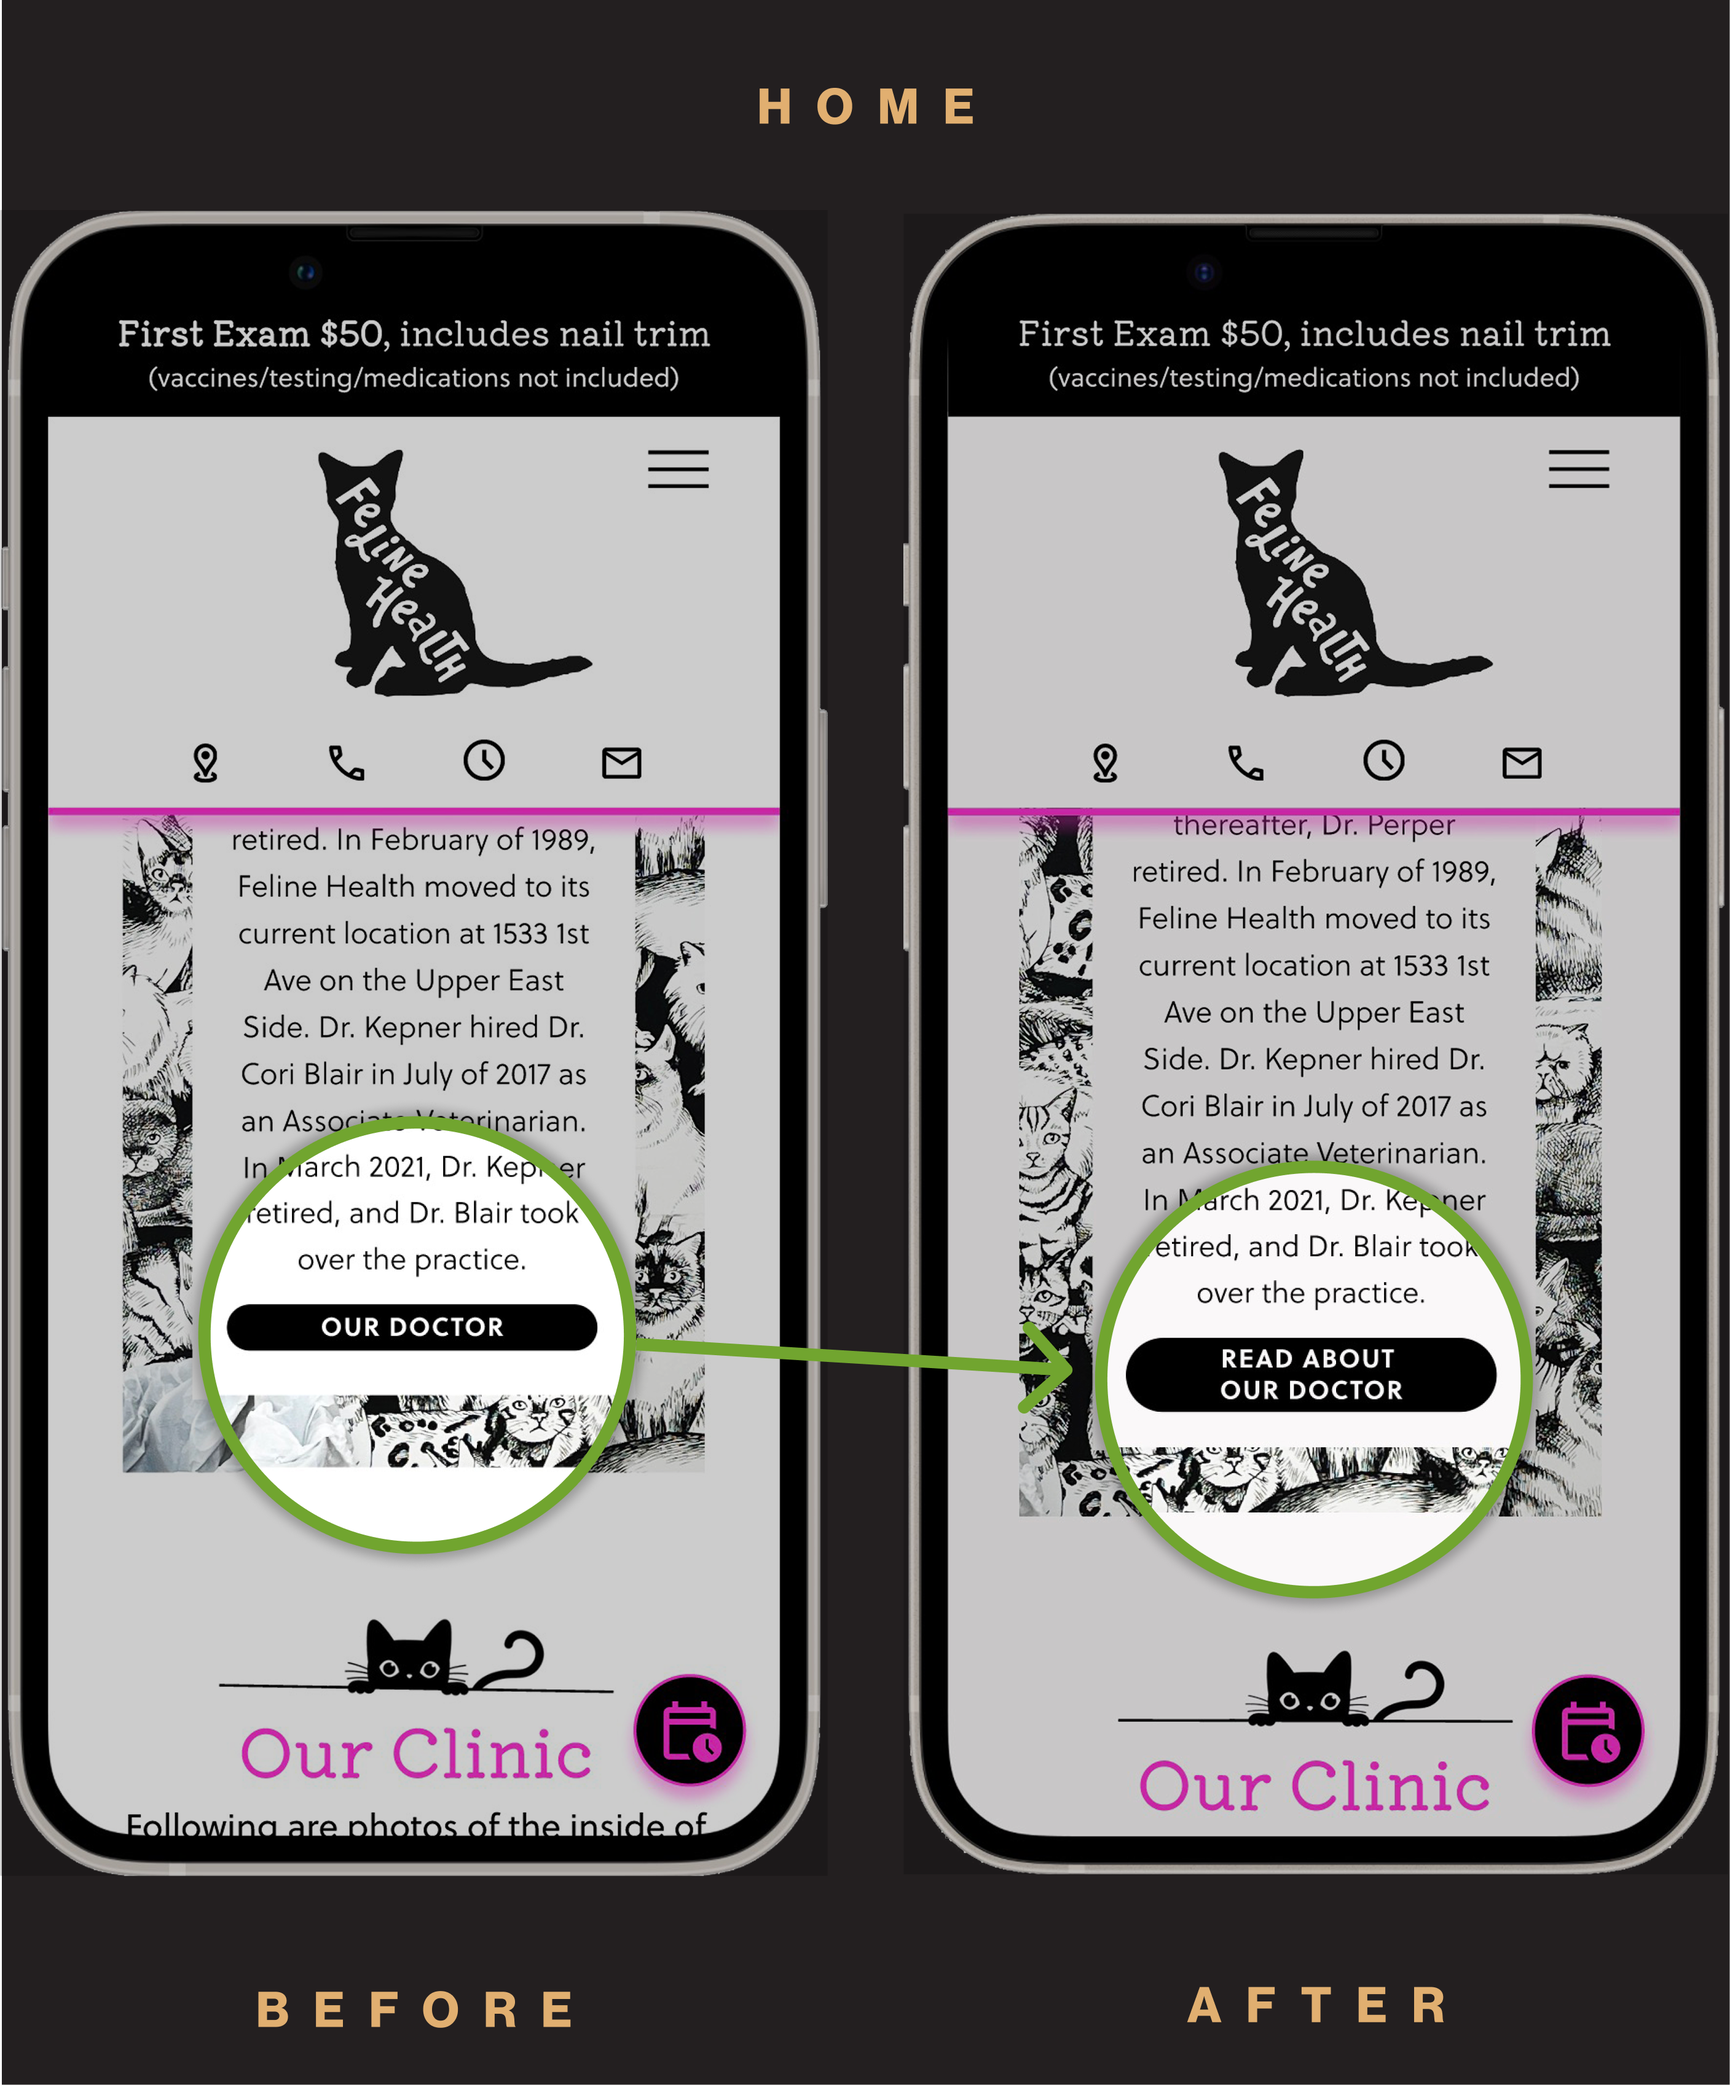
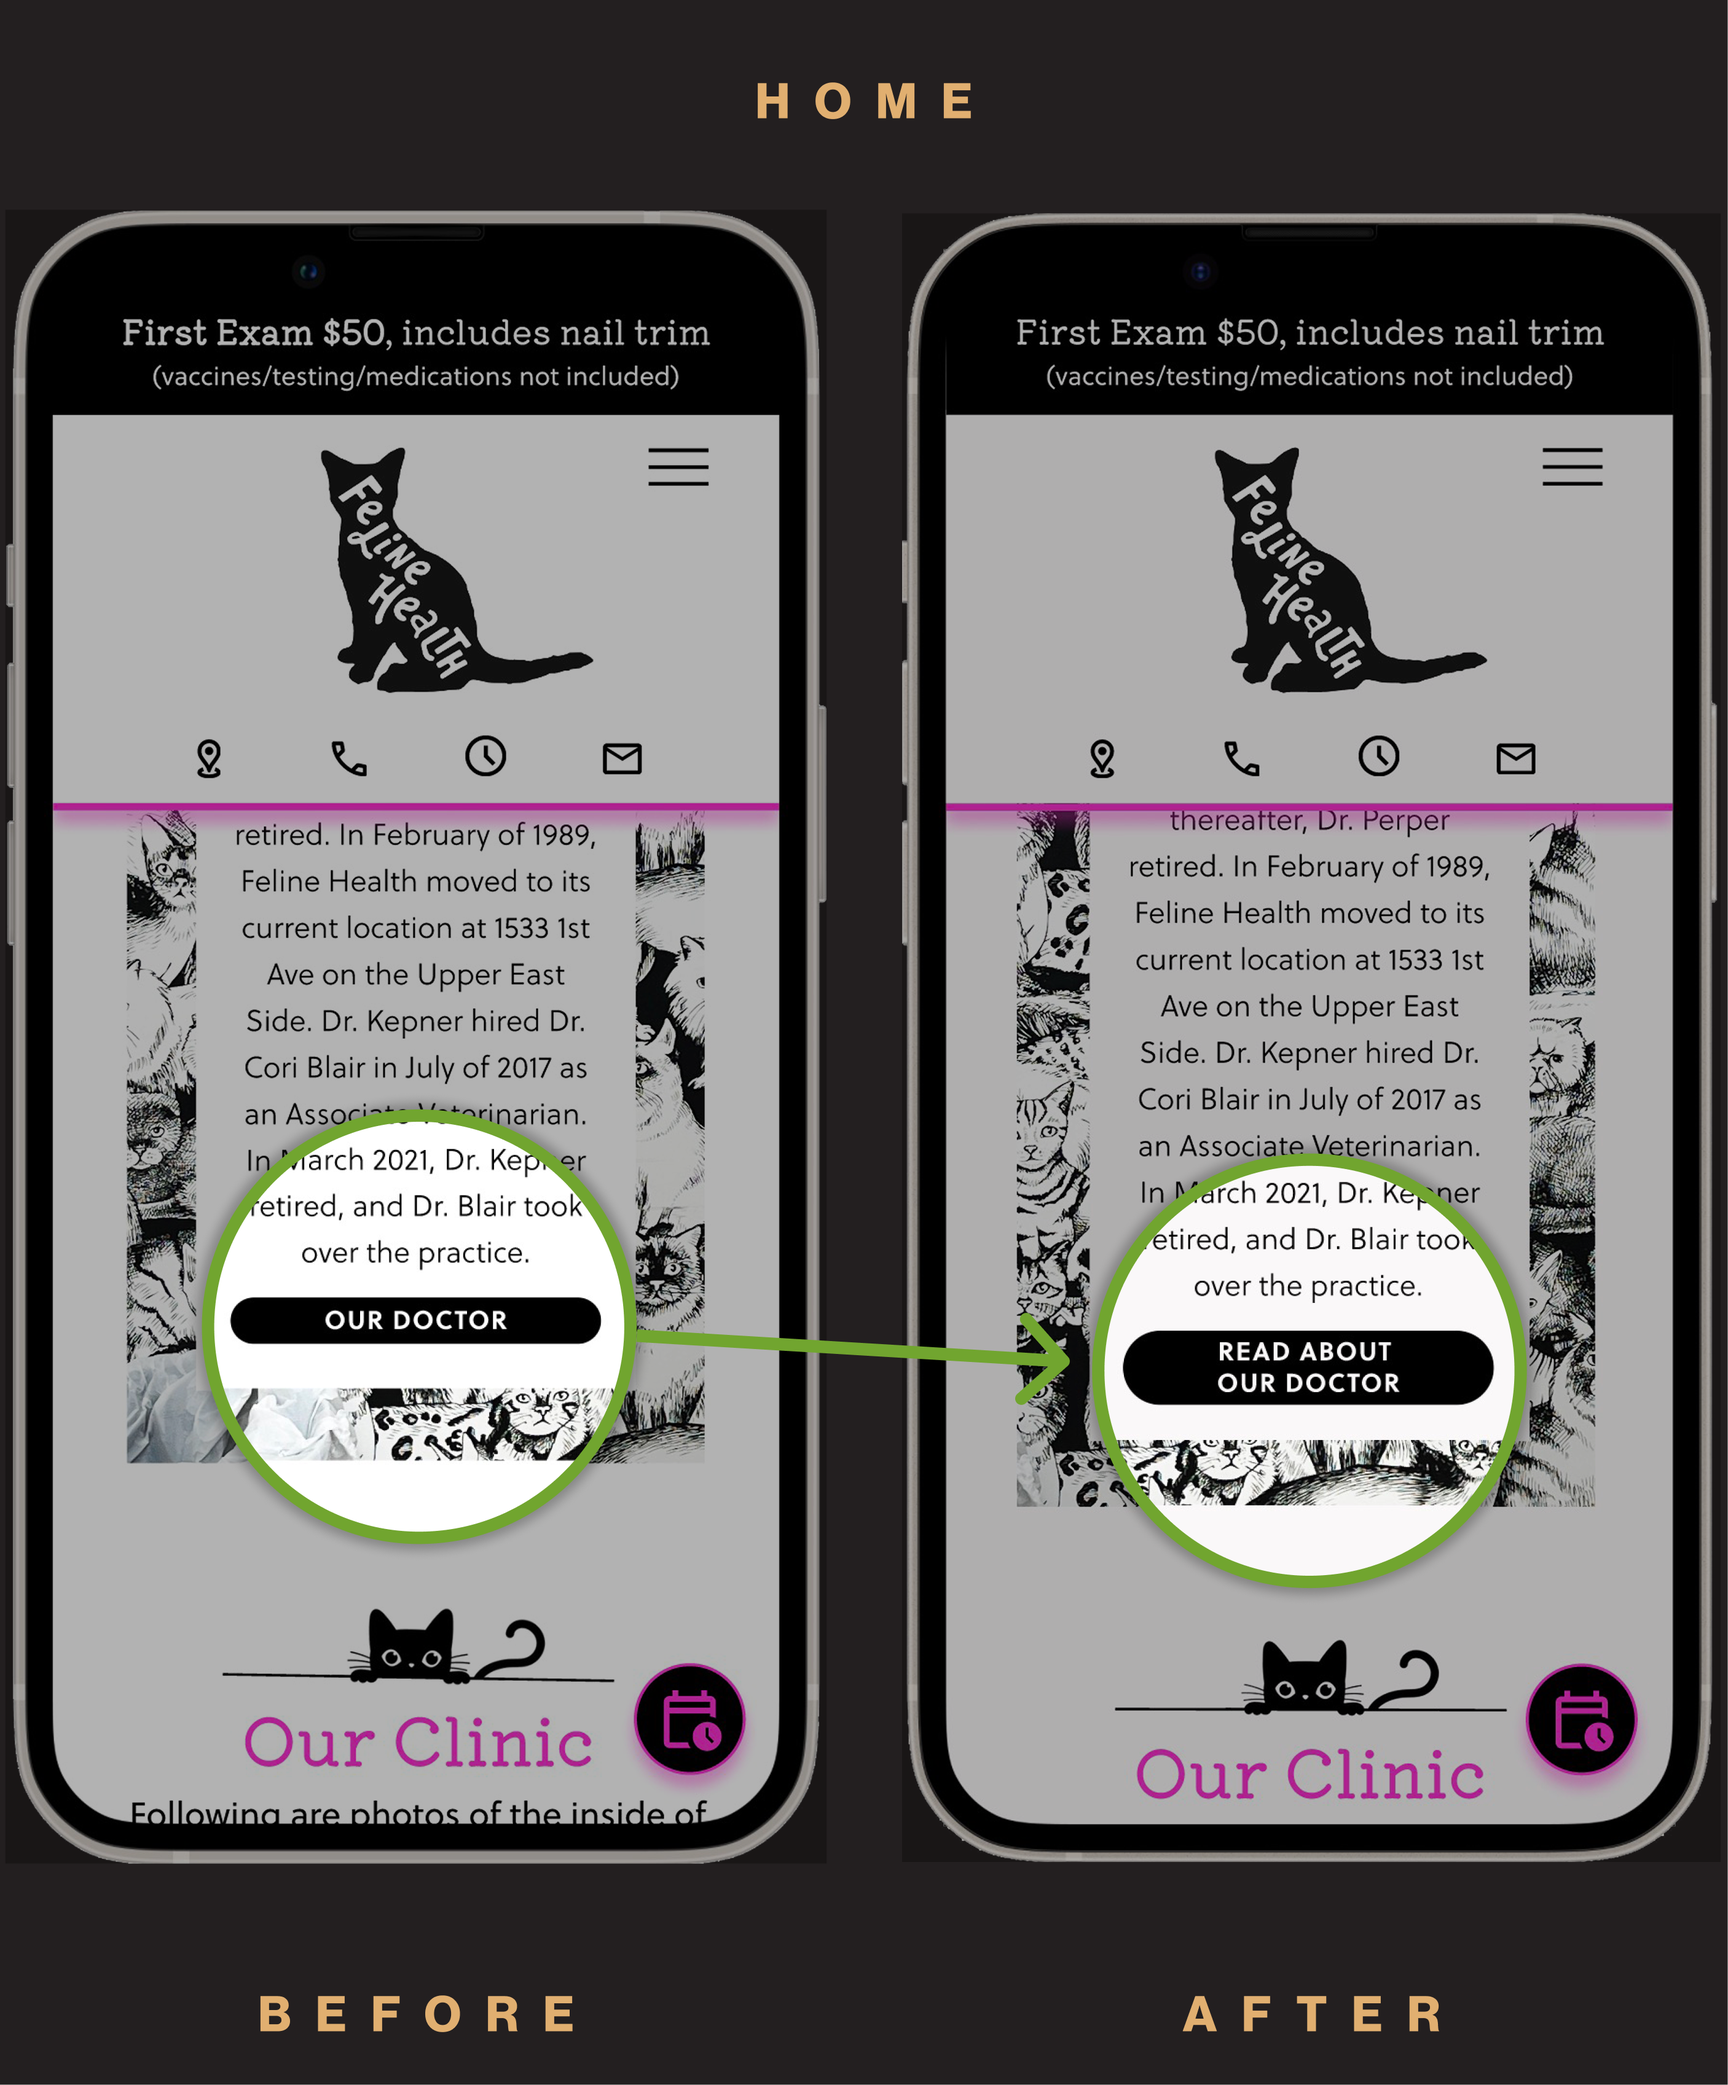
altered iterations made darker

diff --git a/src/components/Fh/TestingFh.js b/src/components/Fh/TestingFh.js
@@ -71,13 +71,20 @@ export const TestingFh = () => {
             <div className='Button enlarge'>iterations mobile</div>
           </div>
           <div className='mobile_iter_container'>
-            {/* <div className='fh_mobile'> */}
             <div className='fh_mobile'>
               <img className='fh_testing' src={mobile_home} alt={mobile_home} />
               <h5>
                 Added prompt to show calendar icon &quot;Click to Book
                 Appointment&quot; on hover
               </h5>
+            </div>
+            <div className='fh_mobile'>
+              <img
+                className='fh_testing'
+                src={mobile_buttons}
+                alt={mobile_buttons}
+              />
+              <h5>Changed all button heights to 40px for ease of use</h5>
             </div>
             <div className='fh_mobile'>
               <img
@@ -90,22 +97,10 @@ export const TestingFh = () => {
                 vet clinic and added Scroll to Top button
               </h5>
             </div>
-            {/* </div> */}
-
-            {/* <div className='fh_mobile'> */}
-            <div className='fh_mobile'>
-              <img
-                className='fh_testing'
-                src={mobile_buttons}
-                alt={mobile_buttons}
-              />
-              <h5>Changed all button heights to 40px for ease of use</h5>
-            </div>
             <div className='fh_mobile'>
               <img className='fh_testing' src={mobile_appt} alt={mobile_appt} />
               <h5>Changed user options to only show available time slots</h5>
             </div>
-            {/* </div> */}
           </div>
         </div>
       </section>

diff --git a/src/components/ReusableTesting.css b/src/components/ReusableTesting.css
@@ -28,7 +28,7 @@
   width: 55rem
 
 }
-.ssc_testing_new, .fh_mobile {
+.ssc_testing_new{
   display: flex;
   justify-content: space-around;
   width: 100%;
@@ -42,16 +42,10 @@ margin-bottom:3rem
 }
 
 .fh_testing {
-  width: auto;
-  height: 53rem;
-  object-fit: cover;
-   margin-bottom:-4rem
-}
-.fh_testing {
     width: 35rem;
     height: auto;
     object-fit: cover;
-    margin-bottom: -1rem;
+    margin-bottom: 1rem;
 }
 
 .iteration_container {
@@ -71,13 +65,14 @@ margin-bottom:3rem
   display: flex;
   justify-content: space-around;
   width: 95rem;
-  margin: auto
+  margin: auto;
+  flex-wrap: wrap
 }
 .fh_mobile {
       width: min-content;
-    display: flex
-;
+    display: flex;
     flex-direction: column;
+    margin-bottom: 2rem
 
 }
 
